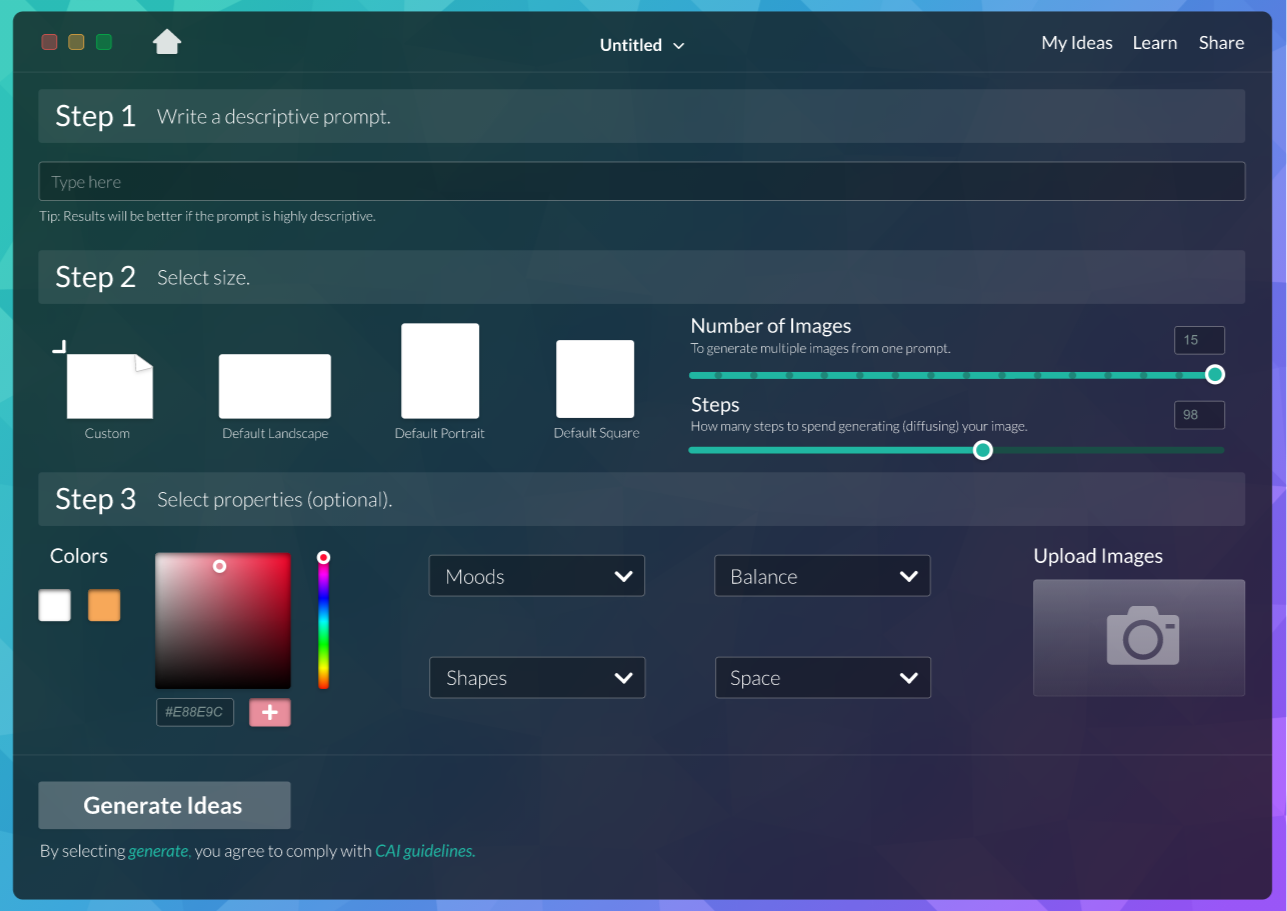
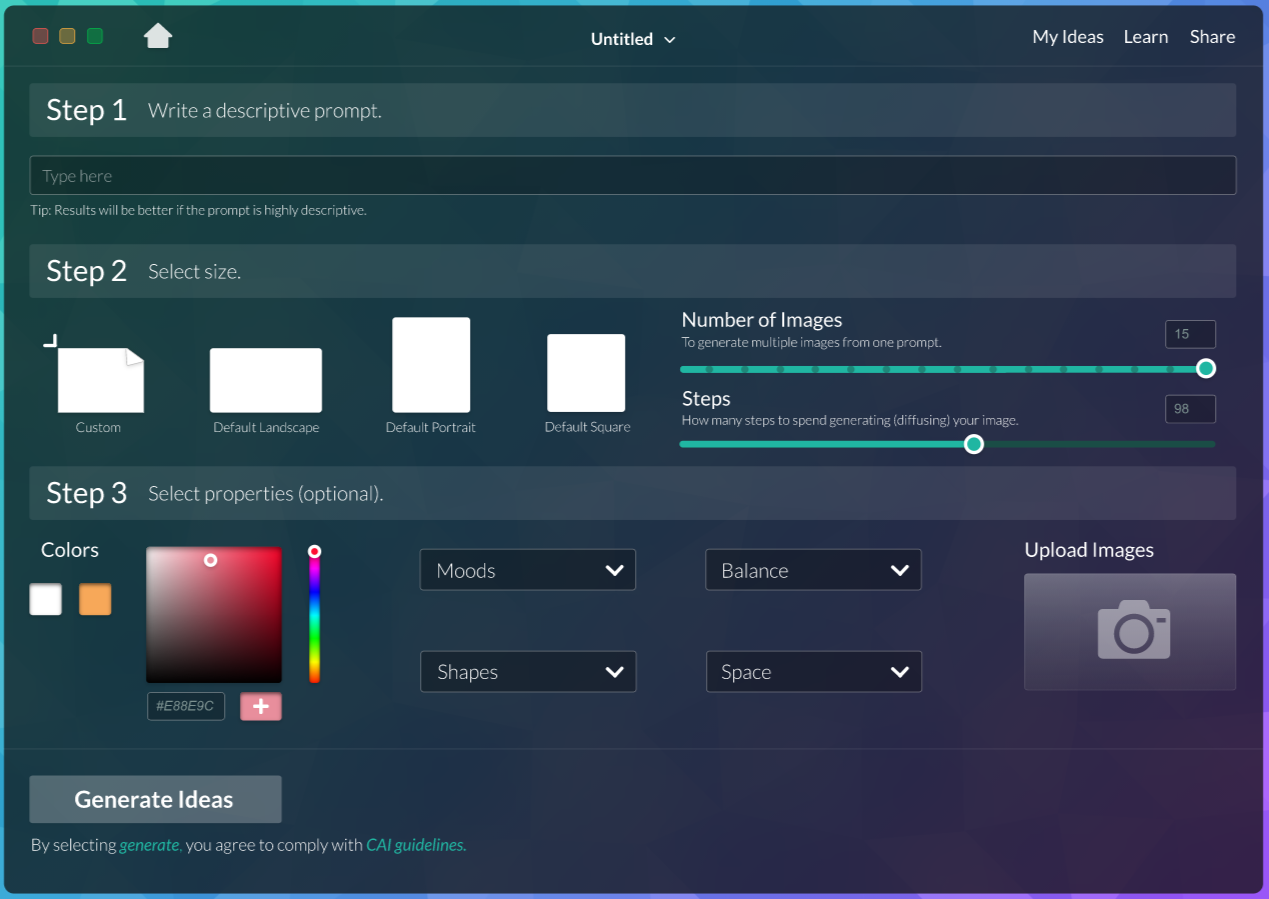
It wasn't fixed

diff --git a/mainstyle.css b/mainstyle.css
@@ -581,7 +581,7 @@ flex-direction: column;
     width:auto;
     max-width:1000px;
     min-width:300px;
-    height:900px;
+    height:auto;
     background-color:#4E435C;
     border-radius:5px;
     margin:auto;